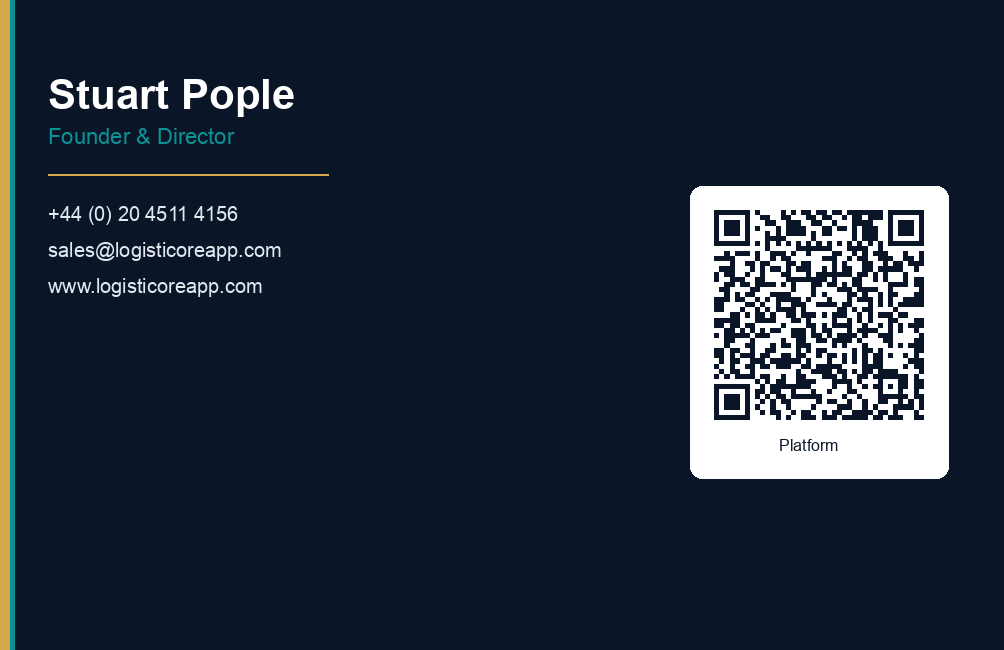
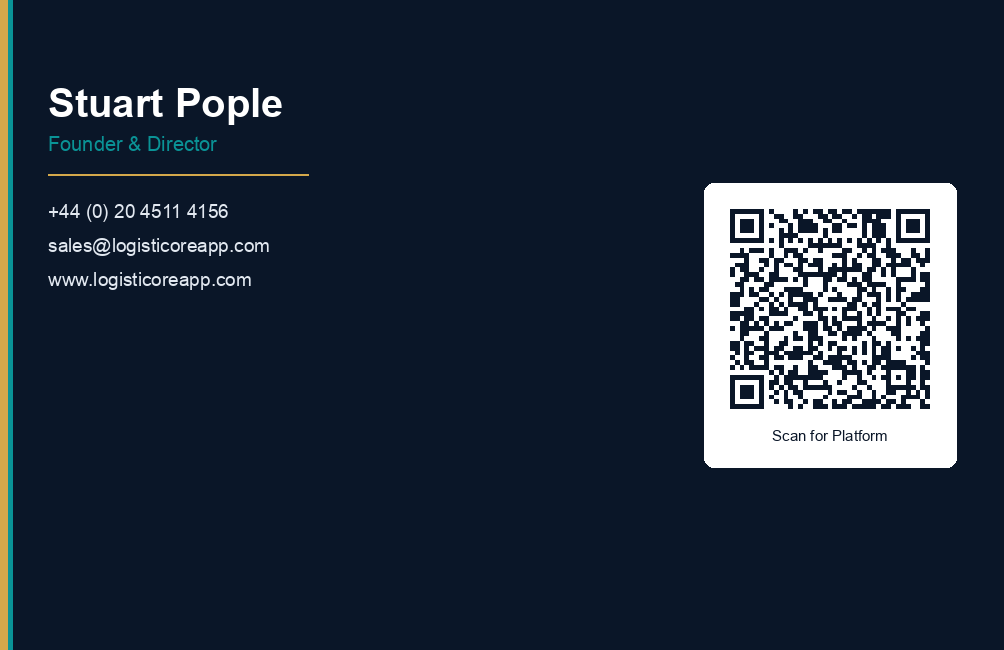
Add Spot UV masks and confirm working SaaS QR on print cards.

Changed region(s): [[0.6793, 0.2769, 0.9572, 0.7385], [0.0, 0.0, 0.3088, 1.0]]

diff --git a/assets/brand/PRINT-BRIEF.md b/assets/brand/PRINT-BRIEF.md
@@ -1,48 +1,44 @@
 # LogistiCore business cards — order & upload guide
 
-## Final design direction (v2)
-- **Navy** `#0A1628` soft-touch base (website + SaaS)
-- **Teal** `#0A9396` + **cyan** `#00BCD4` accents (SaaS / site)
-- **Gold** `#D4A84B` thin rules only (classy, not flashy)
-- **QR on back** → `https://logisticoreapp.com/logisticore-saas.html` (Platform / SaaS page)
-- Name: Stuart Pople · Founder & Director
+## Working QR (important)
+Yes — the **print files** include a real scannable QR.
 
-## Files to upload
-| File | Use |
+| File | QR? |
 |------|-----|
-| `print-front-300dpi.png` | Front artwork (upload as Front) |
-| `print-back-300dpi.png` | Back artwork with QR (upload as Back) |
-| `qr-logisticore-saas.png` | Standalone QR if the printer’s editor needs it separately |
-| `logisticore-card-v2-*.png` | Visual mockups only — do **not** upload these as print files |
+| `print-back-300dpi.png` | **Yes — working.** Opens `https://logisticoreapp.com/logisticore-saas.html` |
+| `qr-logisticore-saas.png` | Same QR standalone |
+| `logisticore-card-v2-back.png` | Mockup only — AI QRs often **do not** scan. Do not upload this. |
 
-## Best quality / cost balance (recommended)
-**Order from Instantprint** (UK) — soft-touch / velvet laminate, 400gsm-class stock:
+Test before ordering: open `print-back-300dpi.png` on your phone and scan the QR with the Camera app.
 
-1. Go to [instantprint.co.uk](https://www.instantprint.co.uk/) → Business Cards  
-2. Choose **Soft Touch / Velvet** (or “Laminated Soft Touch”), **double-sided**, size **85 × 55 mm**  
-3. Quantity **250** (or 500 if you network a lot — unit cost drops)  
-4. Upload `print-front-300dpi.png` and `print-back-300dpi.png`  
-5. In the preview: check QR is sharp, text not cut off, ~3 mm safe from edges  
-6. Skip foil for this run (foil looks great but adds cost). Soft-touch navy already reads premium.
+## Spot UV — yes, that look
+Your navy soft-touch front with the cube + LOGISTICORE is **ideal** for Spot UV:
 
-**Optional upgrade later:** MOO Super Soft Touch + silver foil on the cube only — when budget allows.
+- Soft-touch matte navy = quiet luxury
+- Spot UV on **cube/logo + LOGISTICORE + gold rule** = glossy catchlight / raised feel (exactly the Instantprint “Spot UV” example)
+- Leave the tagline matte so the UV elements pop
 
-Avoid: basic 300gsm uncoated VistaPrint stock for client-facing cards.
+**Skip Gold Foil for now** if keeping cost down — Spot UV alone gets you most of the “million pound” tactile quality.
 
-## How to “push designs” to the printer
-You do **not** email them our chat mockups. You:
+### Instantprint upload (with Spot UV)
+1. Business Cards → Soft Touch / Velvet → 85×55 mm → double-sided → **250**
+2. Enable **Spot UV** (single-sided on the front is enough; optional light UV on back name)
+3. Upload artwork:
+   - Front colour: `print-front-300dpi.png`
+   - Front Spot UV mask: `print-front-spot-uv-mask.png` (black = UV)
+   - Back colour: `print-back-300dpi.png`
+   - Back Spot UV mask (optional): `print-back-spot-uv-mask.png`
+4. Check on-screen proof: UV only on logo/wordmark; QR stays crisp on white pad
+5. Pay
 
-1. Open the printer’s website  
-2. Pick product + finish  
-3. **Upload the two print PNGs** (front + back)  
-4. Approve the on-screen proof  
-5. Pay and wait for delivery (usually a few working days)
+If the site asks for one combined file instead of a mask, use their Spot UV editor and paint UV over the cube + LOGISTICORE only.
 
-If Instantprint asks for PDF: open the PNGs in Preview → Export as PDF, or ask me and I’ll generate PDF bleed files.
+## Colour palette
+- Navy `#0A1628`
+- Cyan `#00BCD4` / Teal `#0A9396`
+- Gold `#D4A84B` (thin rule only)
+- White text
 
-## Specs checklist
-- Size: 85 × 55 mm  
-- Stock: soft-touch / velvet laminate both sides  
-- Colour: full colour CMYK  
-- QR must stay high-contrast (dark on white square) — already done on the back file  
-- Quantity: start with **250**
+## Name on back
+Stuart Pople · Founder & Director  
++44 (0) 20 4511 4156 · sales@logisticoreapp.com · www.logisticoreapp.com
